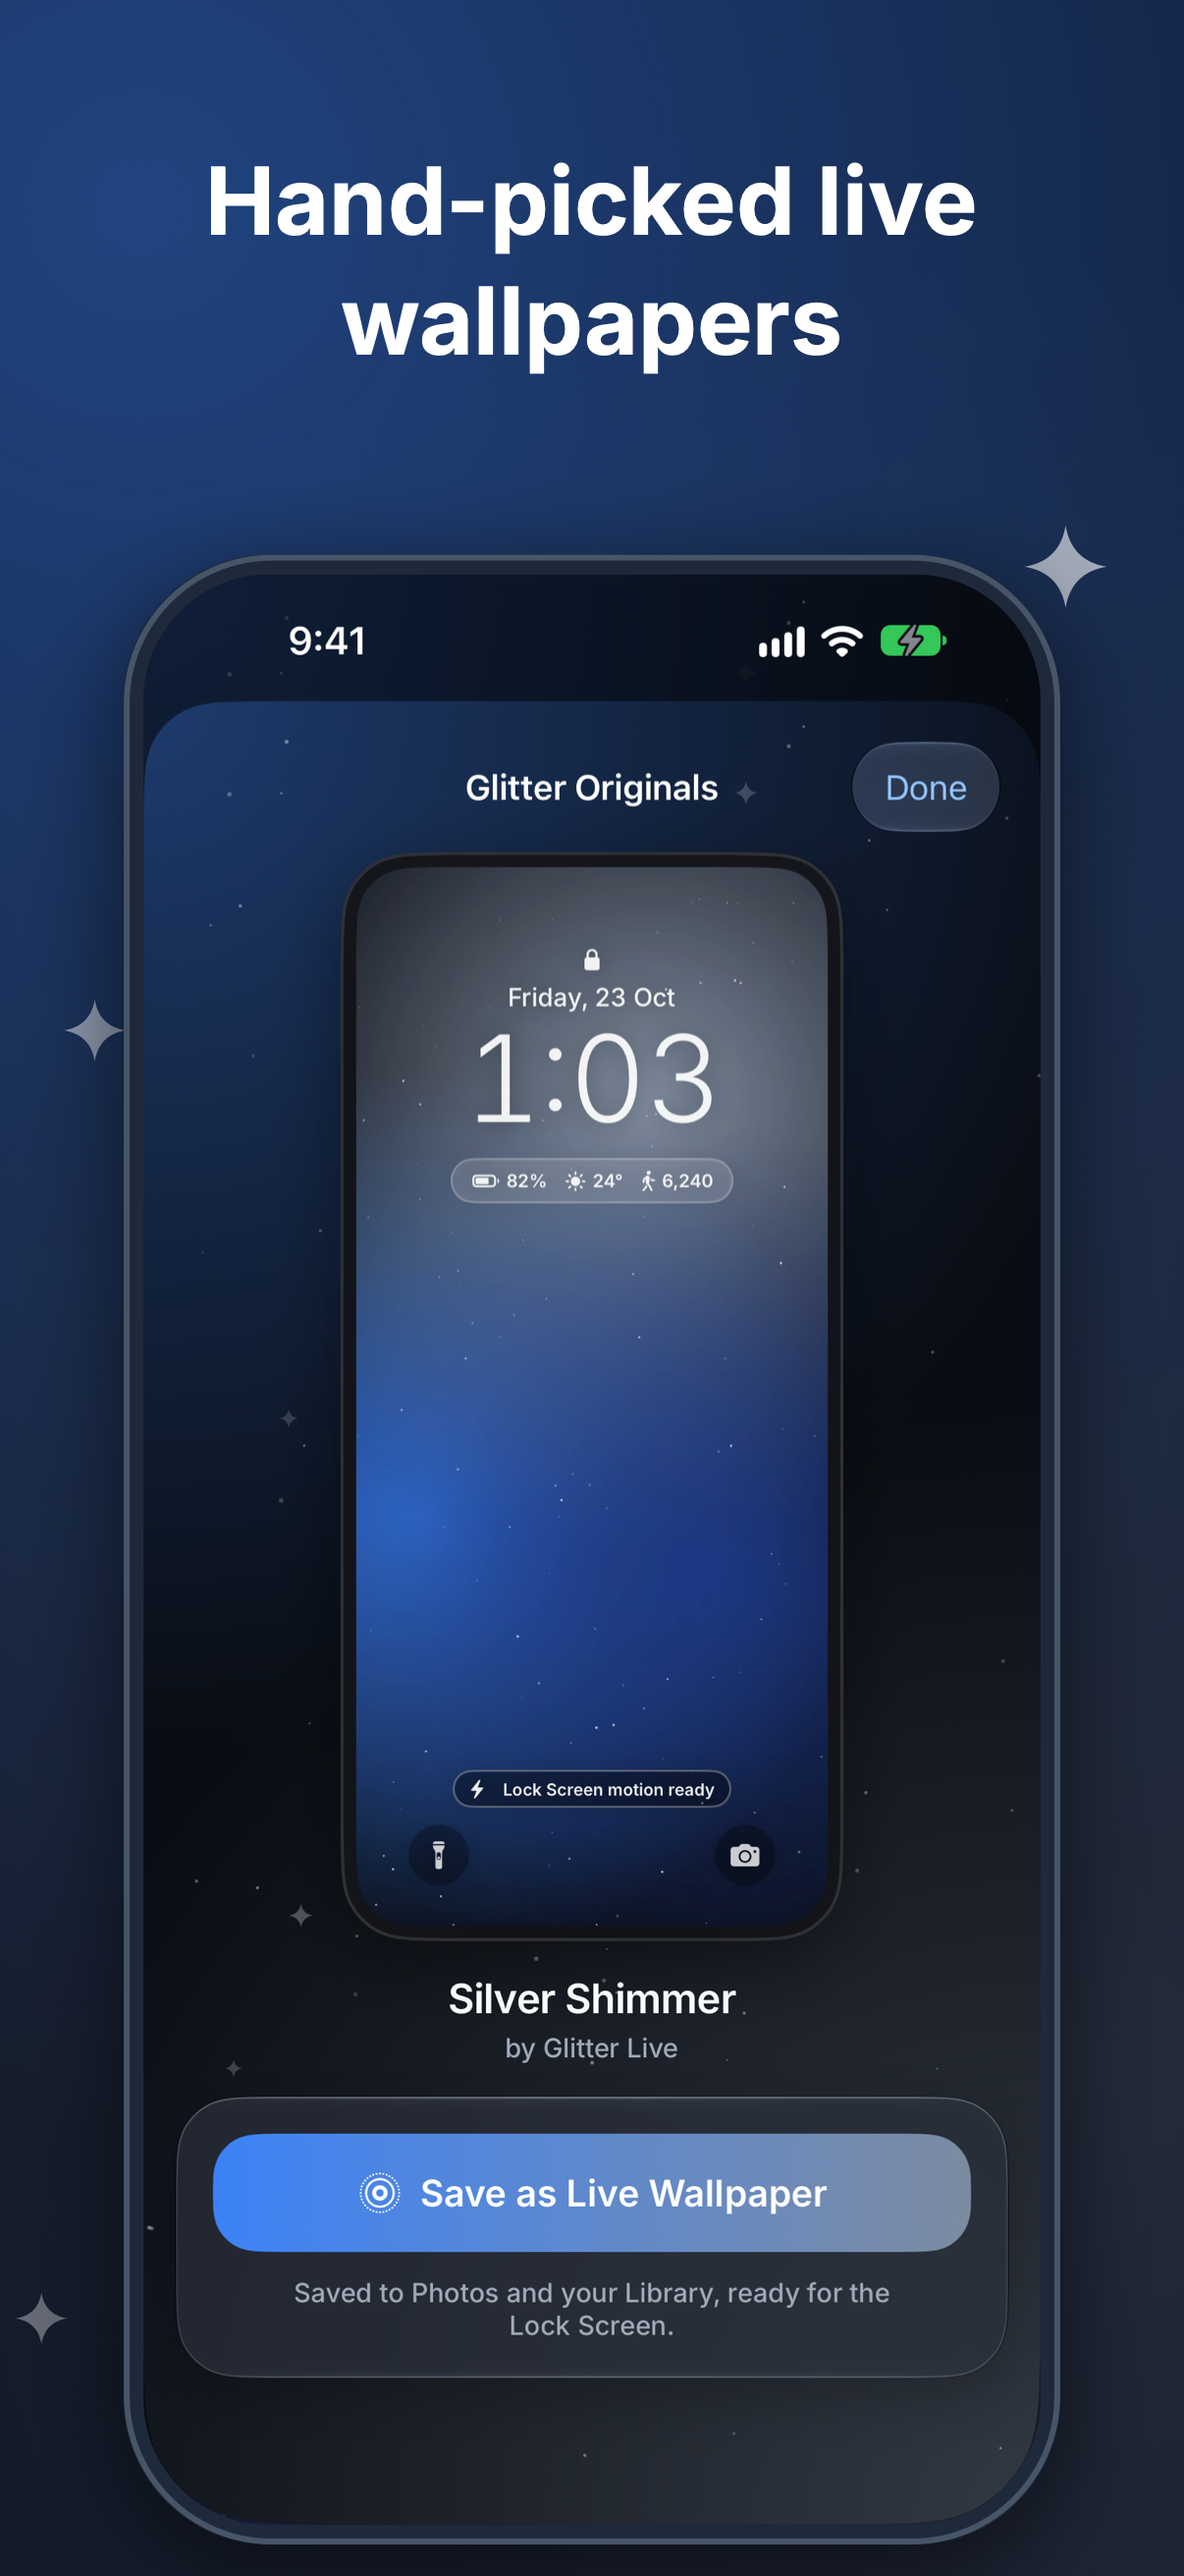
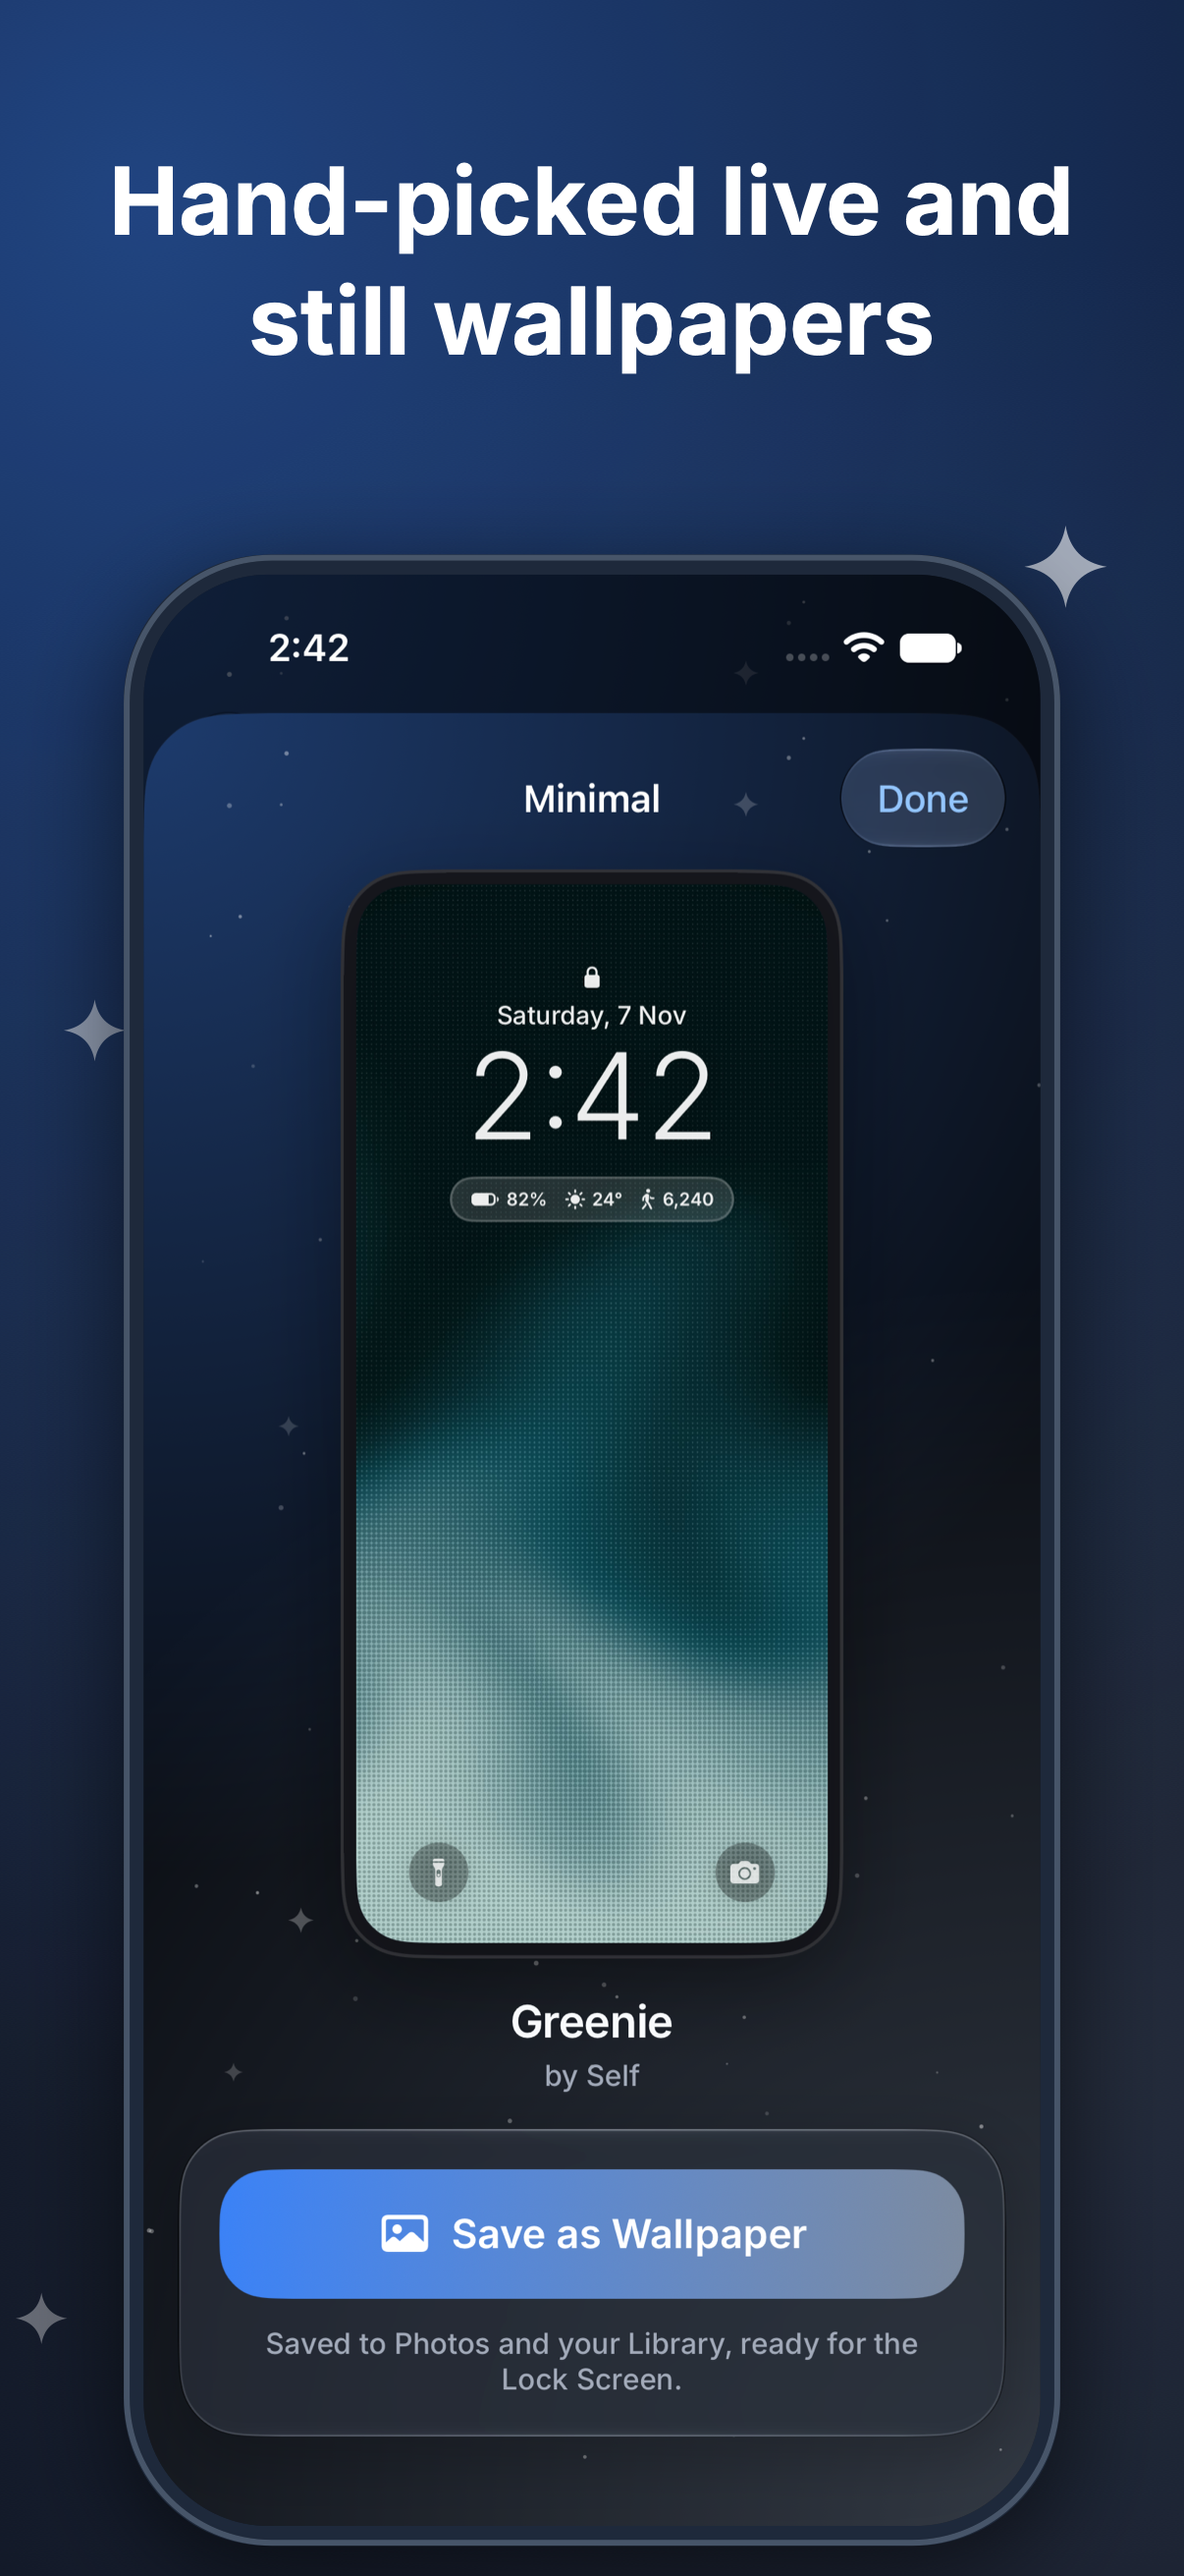
Store assets for 1.1.1: centred header, new Explore, Create and Library screenshots

Changed region(s): [[0.1534, 0.2162, 0.859, 0.9268], [0.092, 0.0618, 0.9204, 0.1545], [0.1227, 0.278, 0.1534, 0.3089]]

diff --git a/scripts/render-icon.swift b/scripts/render-icon.swift
@@ -452,17 +452,20 @@ func renderStoreShot(_ capture: CGImage, caption: String, width: Int, height: In
 
 let tagline = "Turn any video into a live wallpaper"
 
-/// 21:9. Brand on the left, three screens fanned on the right.
+/// 21:9. Five screens fanned symmetrically around the centre, and no text: the App Store crops the header
+/// differently on each device and only keeps about the middle 1646 × 661 for sure (Apple's template safe area),
+/// so the focal screen sits dead centre and the outer ones are free to be clipped. The app's name shows below it.
 func renderHeader(_ screens: [CGImage], name: String) {
     let size = CGSize(width: 3840, height: 1646)
     let ctx = storeContext(Int(size.width), Int(size.height))
     drawStoreBackground(ctx, size)
-    drawLockup(ctx, origin: CGPoint(x: 200, y: 930), height: 150)
-    drawText(ctx, tagline, in: CGRect(x: 200, y: 330, width: 1100, height: 520), size: 120, color: CGColor(gray: 1, alpha: 1), centered: false)
-    let center = CGPoint(x: 2440, y: 760)
-    drawPhone(ctx, screens[0], center: CGPoint(x: center.x - 700, y: center.y - 90), width: 600, angle: 0.07)
-    drawPhone(ctx, screens[2], center: CGPoint(x: center.x + 700, y: center.y - 90), width: 600, angle: -0.07)
-    drawPhone(ctx, screens[1], center: center, width: 680)
+    let mid = size.width / 2
+    // Back to front, so the centre screen overlaps its neighbours.
+    drawPhone(ctx, screens[3], center: CGPoint(x: mid - 1060, y: 760), width: 470, angle: 0.11)
+    drawPhone(ctx, screens[4], center: CGPoint(x: mid + 1060, y: 760), width: 470, angle: -0.11)
+    drawPhone(ctx, screens[1], center: CGPoint(x: mid - 560, y: 800), width: 540, angle: 0.06)
+    drawPhone(ctx, screens[2], center: CGPoint(x: mid + 560, y: 800), width: 540, angle: -0.06)
+    drawPhone(ctx, screens[0], center: CGPoint(x: mid, y: 823), width: 620)
     writePNG(ctx, name)
 }
 
@@ -486,10 +489,10 @@ if mode == "store" {
     func capture(_ name: String) -> CGImage { loadImage(captures.appendingPathComponent("\(name)-dark.png")) }
     let shots = [
         ("explore", "Wallpapers that come alive"),
+        ("create-prompt", "Describe a scene. AI makes the wallpaper."),
         ("trim-studio", "Turn any video into a live wallpaper"),
-        ("trim-studio-3", "Pick the perfect moment"),
         ("result", "Moves every time you wake your iPhone"),
-        ("explore-detail", "Hand-picked live wallpapers"),
+        ("explore-detail", "Hand-picked live and still wallpapers"),
         ("library-grid", "Everything you make, kept in one place"),
     ]
     for (index, (screen, caption)) in shots.enumerated() {
@@ -497,7 +500,7 @@ if mode == "store" {
         renderStoreShot(image, caption: caption, width: 1320, height: 2868, name: "iphone-6.9-\(index + 1)-\(screen).png")
         renderStoreShot(image, caption: caption, width: 1206, height: 2622, name: "iphone-6.3-\(index + 1)-\(screen).png")
     }
-    renderHeader([capture("explore"), capture("trim-studio"), capture("result")], name: "header-3840x1646.png")
+    renderHeader([capture("explore"), capture("create-prompt"), capture("result"), capture("library-grid"), capture("trim-studio")], name: "header-3840x1646.png")
     renderSearch([capture("trim-studio"), capture("result")], name: "search-1920x1280.png")
 } else if mode == "logo" {
     registerInter()

diff --git a/LiveWallUITests/ScreenshotTests.swift b/LiveWallUITests/ScreenshotTests.swift
@@ -8,6 +8,7 @@ final class ScreenshotTests: XCTestCase {
         for appearance in ["dark", "light"] {
             captureOnboarding(appearance)
             captureExplore(appearance)
+            captureCreate(appearance)
             capture("library", appearance, arguments: ["-tab", "library"])
             captureLibrary(appearance)
             capture("convert-empty", appearance, arguments: ["-tab", "convert"])
@@ -65,21 +66,33 @@ final class ScreenshotTests: XCTestCase {
     @MainActor
     private func captureExplore(_ appearance: String) {
         let app = launch(appearance, ["-tab", "explore", "-hasCompletedOnboarding", "YES"])
-        let card = app.buttons["catalog-card"].firstMatch
-        XCTAssertTrue(card.waitForExistence(timeout: 30), "Catalog didn't load")
+        let tile = app.buttons["category-tile"].firstMatch
+        XCTAssertTrue(tile.waitForExistence(timeout: 30), "Catalog didn't load")
         Thread.sleep(forTimeInterval: 3)
         attach(app, name: "explore-\(appearance)")
         scrollDown(app)
         attach(app, name: "explore-2-\(appearance)")
-        // Back to the top, so the first See all isn't hidden under the header.
-        app.swipeDown()
-        Thread.sleep(forTimeInterval: 1)
-        app.buttons.matching(NSPredicate(format: "label BEGINSWITH 'See all'")).firstMatch.tap()
-        Thread.sleep(forTimeInterval: 2)
+        // The Categories grid's first tile opens that category's wallpapers.
+        app.buttons["category-tile"].firstMatch.tap()
+        Thread.sleep(forTimeInterval: 3)
         attach(app, name: "explore-see-all-\(appearance)")
         app.buttons["catalog-card"].firstMatch.tap()
         Thread.sleep(forTimeInterval: 4)
         attach(app, name: "explore-detail-\(appearance)")
+        app.terminate()
+    }
+
+    /// Create with a prompt filled in by Surprise Me, ready to generate.
+    @MainActor
+    private func captureCreate(_ appearance: String) {
+        let app = launch(appearance, ["-tab", "create", "-hasCompletedOnboarding", "YES"])
+        let surprise = app.buttons["Surprise Me"].firstMatch
+        XCTAssertTrue(surprise.waitForExistence(timeout: 10), "Create didn't open")
+        Thread.sleep(forTimeInterval: 2)
+        attach(app, name: "create-\(appearance)")
+        surprise.tap()
+        Thread.sleep(forTimeInterval: 1)
+        attach(app, name: "create-prompt-\(appearance)")
         app.terminate()
     }
 

diff --git a/LiveWall/Features/Explore/ExploreView.swift b/LiveWall/Features/Explore/ExploreView.swift
@@ -252,6 +252,7 @@ struct ExploreView: View {
                             CategoryTile(section: section)
                         }
                         .buttonStyle(CardPressStyle())
+                        .accessibilityIdentifier("category-tile")
                     }
                 }
             }
